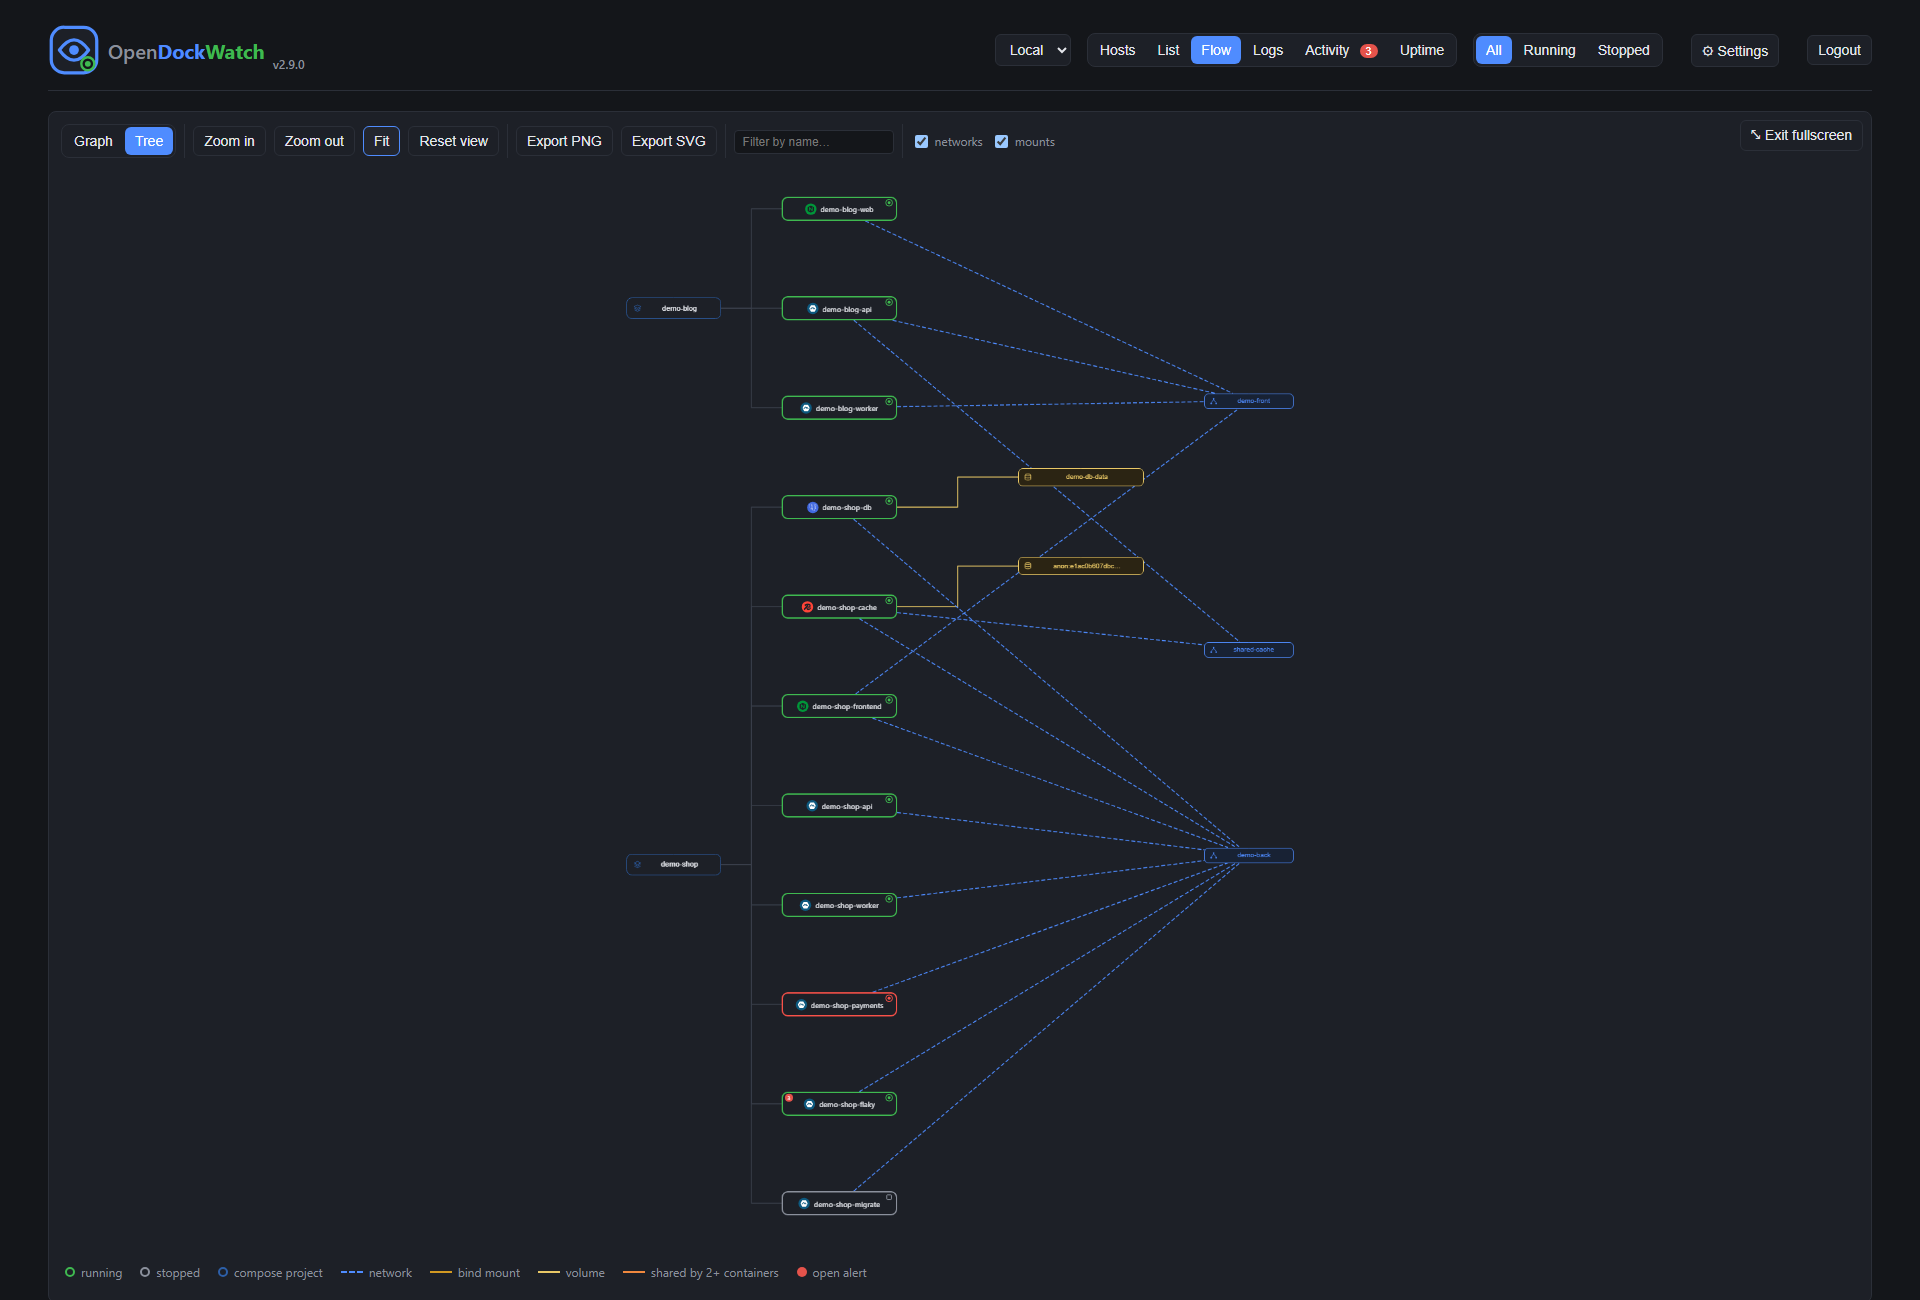
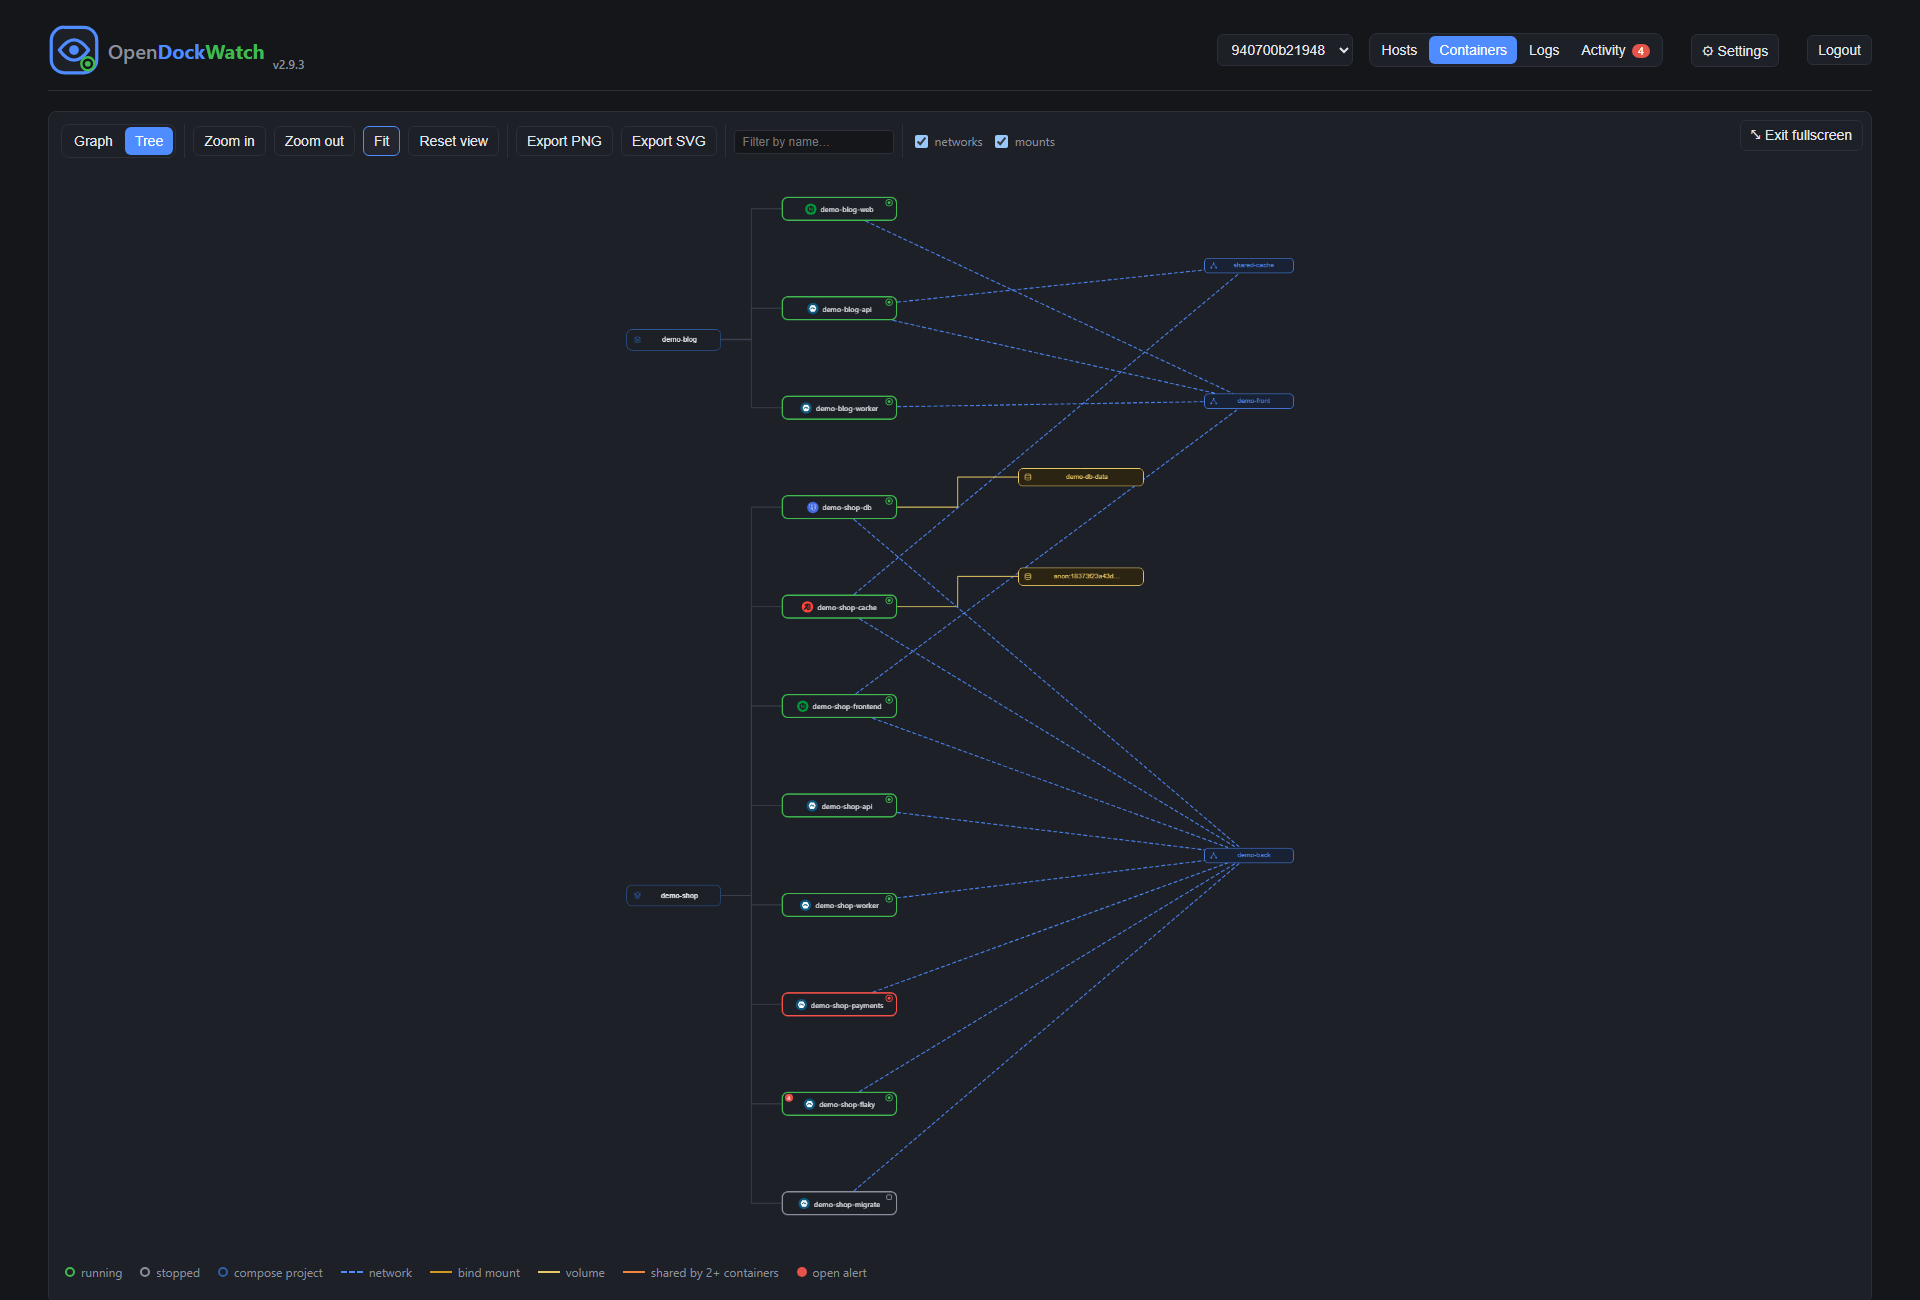
docs: retake screenshots prepare for release, add host history, uptime, hosts and resources

diff --git a/scripts/screenshots.js b/scripts/screenshots.js
@@ -46,6 +46,22 @@ async function main() {
   };
 
   const btn = (text) => page.locator('button', { hasText: text }).first();
+  // The topbar's four tabs and the row of views under the current one. Anchored, because Playwright's
+  // hasText is a case-insensitive substring match and "Hosts" would also hit the "All hosts" view.
+  const openTab = async (label) => {
+    await page
+      .locator('nav.view-toggle button', { hasText: new RegExp('^\\s*' + label) })
+      .first()
+      .click();
+    await page.waitForTimeout(1200);
+  };
+  const openView = async (label) => {
+    await page
+      .locator('.subbar .view-toggle button', { hasText: new RegExp('^\\s*' + label + '\\s*$') })
+      .first()
+      .click();
+    await page.waitForTimeout(1200);
+  };
   const fit = async () => {
     await btn('Fit').click();
     await page.waitForTimeout(1200);
@@ -103,8 +119,23 @@ async function main() {
   await page.keyboard.press('Escape');
   await page.waitForTimeout(500);
 
+  console.log('host history');
+  // The fullscreen host card on its persisted 1h range, so the shot shows the range switch and the
+  // Earlier / Later / Now strip. One step back would be empty: the stack is only WARM_MS old.
+  await page.locator('.host-card button', { hasText: 'Fullscreen' }).first().click();
+  await page.waitForTimeout(1200);
+  await page.locator('.host-range-toggle button', { hasText: '1h' }).first().click();
+  await page.waitForSelector('.host-card .history-pan');
+  await page.waitForTimeout(3000);
+  const hostBox = await page.locator('.host-card .sparkline').first().boundingBox();
+  await page.mouse.move(hostBox.x + hostBox.width * 0.85, hostBox.y + hostBox.height * 0.5);
+  await page.waitForTimeout(700);
+  await shot('host-history', { fitHeight: false });
+  await page.locator('.host-card button', { hasText: 'Exit fullscreen' }).first().click();
+  await page.waitForTimeout(1200);
+
   console.log('flow view');
-  await page.locator('.view-toggle button', { hasText: 'Flow' }).first().click();
+  await openView('Flow');
   await page.waitForTimeout(4500);
   // Below COMPACT_ZOOM_THRESHOLD the nodes deliberately drop to a state/icon/name rendering, which
   // would hide the CPU/RAM bars this shot is meant to show. Fullscreen gives the canvas the
@@ -156,8 +187,7 @@ async function main() {
   await page.waitForTimeout(1200);
 
   console.log('logs tab');
-  await page.locator('.view-toggle button', { hasText: 'Logs' }).first().click();
-  await page.waitForTimeout(1200);
+  await openTab('Logs');
   // Multi mode is the default, but a remembered single-pane choice would hide the point of the tab.
   await page.locator('.logs-tab-viewmode button', { hasText: 'Multi' }).click();
   for (const name of ['demo-shop-api', 'demo-shop-worker', 'demo-blog-api', 'demo-shop-payments']) {
@@ -169,8 +199,9 @@ async function main() {
 
   console.log('details panel');
   await clearSelection();
-  await page.locator('.view-toggle button', { hasText: 'List' }).first().click();
-  await page.waitForTimeout(1500);
+  // The Containers tab reopens Flow (the last view used in it), so pick List explicitly.
+  await openTab('Containers');
+  await openView('List');
   // The name cell, not the row centre - the centre is the sparkline button, which stops
   // propagation and opens the metrics modal instead of selecting.
   await page.locator('table.containers tbody tr', { hasText: 'demo-shop-api' }).first().locator('td').first().click();
@@ -200,8 +231,9 @@ async function main() {
   // Otherwise the panel is still open from the details shot, squeezing the two columns this view
   // exists to show side by side.
   await clearSelection();
-  await page.locator('.view-toggle button', { hasText: 'Activity' }).first().click();
-  await page.waitForTimeout(3000);
+  await openTab('Activity');
+  await openView('Alerts & events');
+  await page.waitForTimeout(1800);
   // The caption promises an acknowledged alert and a filtered event log, so produce both.
   const ack = page.locator('.alert-row button', { hasText: 'Acknowledge' }).first();
   if (await ack.count()) {
@@ -211,6 +243,26 @@ async function main() {
   await page.locator('input[placeholder="Search events…"]').fill('demo-shop-flaky');
   await page.waitForTimeout(1200);
   await shot('activity-view');
+
+  console.log('uptime view');
+  await openView('Uptime');
+  await page.waitForSelector('table.uptime-table');
+  await page.waitForTimeout(1500);
+  await shot('uptime-view');
+
+  console.log('hosts overview');
+  await openTab('Hosts');
+  await openView('All hosts');
+  await page.waitForSelector('table.hosts-table');
+  await page.waitForTimeout(1500);
+  await shot('hosts-overview');
+
+  console.log('resources view');
+  await openView('Resources');
+  // `docker system df -v` is read in the background and can take a minute or more on WSL2.
+  await page.waitForSelector('table.resources-table', { timeout: 180_000 });
+  await page.waitForTimeout(1500);
+  await shot('resources-view');
 
   await browser.close();
 

diff --git a/test/historyWindow.test.js b/test/historyWindow.test.js
@@ -51,19 +51,19 @@ test('windowAnchorTs', async (t) => {
 });
 
 test('windowLabel', async (t) => {
-  await t.test('reads "Now" for a live window', () => {
-    assert.equal(hw.windowLabel(null, HOUR), 'Now');
+  await t.test('reads "Last <range>" for a live window', () => {
+    assert.equal(hw.windowLabel(null, HOUR, '1h'), 'Last 1h');
   });
 
   await t.test('names the day once when the window sits inside one day', () => {
     const until = new Date(2026, 10, 1, 10, 0).getTime();
-    const label = hw.windowLabel(until, HOUR, 'en-GB');
+    const label = hw.windowLabel(until, HOUR, '1h', 'en-GB');
     assert.equal(label, '09:00 – 10:00, 1 Nov');
   });
 
   await t.test('names both days when the window crosses midnight', () => {
     const until = new Date(2026, 10, 2, 1, 0).getTime();
-    const label = hw.windowLabel(until, 2 * HOUR, 'en-GB');
+    const label = hw.windowLabel(until, 2 * HOUR, '24h', 'en-GB');
     assert.match(label, /1 Nov.*– .*2 Nov/);
   });
 });

diff --git a/public/js/lib/historyWindow.js b/public/js/lib/historyWindow.js
@@ -18,10 +18,10 @@ export function windowAnchorTs(untilMs, bucketMs) {
   return untilMs - bucketMs;
 }
 
-// "09:00 – 10:00, 1 Nov" style text for the pan strip; the day is spelled out on both sides
+// "09:00 – 10:00, 1 Nov" style text for the pan strip ("Last 1h" while live); the day is spelled out on both sides
 // only when the window crosses midnight.
-export function windowLabel(untilMs, windowMs, locale) {
-  if (untilMs == null) return 'Now';
+export function windowLabel(untilMs, windowMs, rangeKey, locale) {
+  if (untilMs == null) return 'Last ' + rangeKey;
   const start = new Date(untilMs - windowMs);
   const end = new Date(untilMs);
   const time = { hour: '2-digit', minute: '2-digit' };

diff --git a/public/js/components/HostCard.js b/public/js/components/HostCard.js
@@ -101,7 +101,7 @@ export default {
       return windowAnchorTs(this.untilMs, this.bucketMs);
     },
     windowText() {
-      return windowLabel(this.untilMs, this.windowMs);
+      return windowLabel(this.untilMs, this.windowMs, this.range);
     },
     // The single source every series below reads, so switching range swaps all of them at once
     // and the two tiles can never end up drawing different windows.

diff --git a/public/js/components/ContainerMetricsModal.js b/public/js/components/ContainerMetricsModal.js
@@ -46,7 +46,7 @@ export default {
       return windowAnchorTs(this.untilMs, this.bucketMs);
     },
     windowText() {
-      return windowLabel(this.untilMs, this.windowMs);
+      return windowLabel(this.untilMs, this.windowMs, this.range);
     },
     slotCount() {
       return HISTORY_RANGE_SLOTS[this.range];

diff --git a/README.md b/README.md
@@ -31,9 +31,13 @@ Full detail: [docs/features.md](docs/features.md).
 
 ![List view, containers grouped by Compose project](screenshots/list-view.png)
 
-**Container metrics** — recorded history over 1h / 24h / 7d, one shared hover crosshair
+**Container metrics** — recorded history over 1h / 24h / 7d, one shared hover crosshair, step back through earlier windows
 
 ![Container metrics modal showing CPU, memory, network I/O and block I/O charts for a single container over a one-hour window](screenshots/container-metrics.png)
+
+**Host history** — the host card fullscreen: CPU and RAM over live / 1h / 24h / 7d, paged back an hour, a day or a week at a time
+
+![Fullscreen host card over a one-hour window, with Earlier, Later and Now buttons for moving through recorded CPU and RAM history](screenshots/host-history.png)
 
 **Flow view** — topology graph with live stats and open-alert badges on each node
 
@@ -66,6 +70,18 @@ Full detail: [docs/features.md](docs/features.md).
 **Activity view** — alerts and the container event log side by side
 
 ![Activity view, searchable alerts with an acknowledged checkmark and a filtered event log](screenshots/activity-view.png)
+
+**Uptime** — per-container up / healthy percentages, down time and restarts over 24h / 7d / 30d
+
+![Uptime view, a per-container report of up and healthy percentages, down time and restarts over the last 24 hours](screenshots/uptime-view.png)
+
+**Hosts tab** — every monitored host on one screen, problem hosts first
+
+![Hosts tab, one row per monitored host with reachability, running containers, CPU, memory and open alerts](screenshots/hosts-overview.png)
+
+**Resources** — read-only inventory of images, volumes and networks, with what's unused
+
+![Resources view, a table of the host’s images with size, unique size, container count and an In use / Unused flag](screenshots/resources-view.png)
 
 ## Quick start
 

diff --git a/DOCKERHUB.md b/DOCKERHUB.md
@@ -86,6 +86,8 @@ services:
 
 ![Container metrics modal showing CPU, memory, network I/O and block I/O charts for a single container over a one-hour window](https://raw.githubusercontent.com/DarkS1D3R/OpenDockWatch/main/screenshots/container-metrics.png)
 
+![Fullscreen host card over a one-hour window, with Earlier, Later and Now buttons for moving through recorded CPU and RAM history](https://raw.githubusercontent.com/DarkS1D3R/OpenDockWatch/main/screenshots/host-history.png)
+
 ![Flow view, a topology graph of containers](https://raw.githubusercontent.com/DarkS1D3R/OpenDockWatch/main/screenshots/flow-view.png)
 
 ![Flow view with a node selected, tinting its upstream dependencies purple and downstream dependents orange](https://raw.githubusercontent.com/DarkS1D3R/OpenDockWatch/main/screenshots/flow-blast-radius.png)
@@ -97,6 +99,12 @@ services:
 ![Container details panel with a live log preview and expanded environment/labels sections](https://raw.githubusercontent.com/DarkS1D3R/OpenDockWatch/main/screenshots/details-panel.png)
 
 ![Full-width Log Viewer with level filters](https://raw.githubusercontent.com/DarkS1D3R/OpenDockWatch/main/screenshots/log-viewer.png)
+
+![Uptime view, a per-container report of up and healthy percentages, down time and restarts over the last 24 hours](https://raw.githubusercontent.com/DarkS1D3R/OpenDockWatch/main/screenshots/uptime-view.png)
+
+![Hosts tab, one row per monitored host with reachability, running containers, CPU, memory and open alerts](https://raw.githubusercontent.com/DarkS1D3R/OpenDockWatch/main/screenshots/hosts-overview.png)
+
+![Resources view, a table of the host’s images with size, unique size, container count and an In use / Unused flag](https://raw.githubusercontent.com/DarkS1D3R/OpenDockWatch/main/screenshots/resources-view.png)
 
 ## Tags
 

diff --git a/CONTRIBUTING.md b/CONTRIBUTING.md
@@ -37,7 +37,7 @@ something that has more than one container in it.
 The stack deliberately contains an unhealthy container, a crash-looping one, and one that has
 exited, so the health dots, restart badges and alert rules all have something to show.
 
-Taking the shots themselves is `npm run screenshots`, which drives a real browser through all ten:
+Taking the shots themselves is `npm run screenshots`, which drives a real browser through all fourteen:
 
 ```
 npx playwright install chromium          # once - CI skips the browser download, see ci.yml
@@ -52,7 +52,7 @@ It waits 30 minutes before the first shot on purpose: the row sparklines fill fr
 in-memory buffer that starts empty on page load, and the host card's chart covers 30 minutes, so
 leave the stack running a while before shooting or those charts render as slivers. `SCREENSHOT_SCALE=2`
 renders at 2x for a hidpi-crisp result, at approximately four times the file size — the committed
-set is 1x, which keeps all ten to about 2.3MB.
+set is 1x, which keeps the set small (the first ten came to about 2.3MB).
 
 Settings that matter when retaking the set:
 
